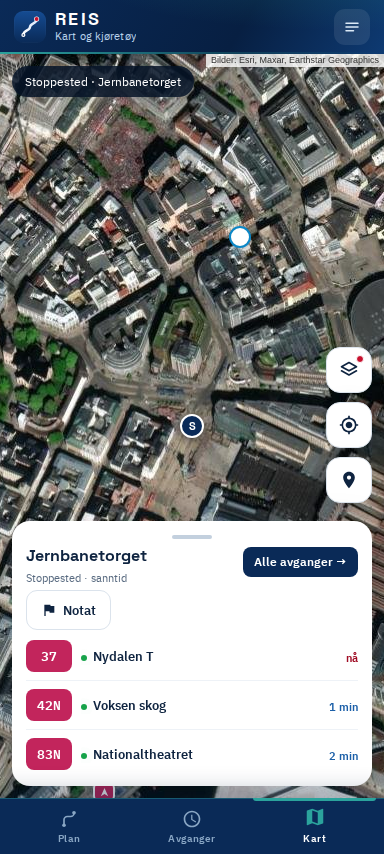
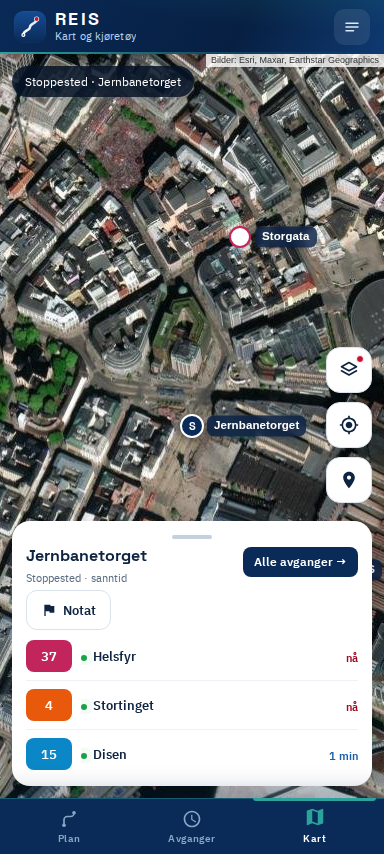
Add files via upload

diff --git a/index.html b/index.html
@@ -418,6 +418,20 @@ a{color:inherit}
 .leaflet-popup-close-button{color:var(--muted)!important}
 .leaflet-popup-content{margin:12px 14px;font-family:var(--font-b)}
 /* Holdeplassnål på kartet – liten nok til at 40 av dem ikke drukner kartet */
+/* Navnet ligger til høyre for nålen, med mørk plate for lesbarhet – også over
+   satellittbilder, der ren tekst forsvinner. */
+.pin-label{position:absolute;left:26px;top:50%;transform:translateY(-50%) translateX(-4px);
+  display:none;opacity:0;white-space:nowrap;pointer-events:none;
+  font-size:11.5px;font-weight:600;letter-spacing:.01em;color:#fff;
+  background:rgba(7,31,66,.82);padding:2px 7px;border-radius:7px;
+  backdrop-filter:blur(3px);box-shadow:0 1px 4px rgba(4,20,43,.35);
+  transition:opacity .22s ease,transform .22s cubic-bezier(.22,1,.36,1)}
+.pin-label.show{display:block;opacity:1;transform:translateY(-50%) translateX(0)}
+.pin-label.left{left:auto;right:26px;transform:translateY(-50%) translateX(4px)}
+.pin-label.left.show{transform:translateY(-50%) translateX(0)}
+/* Under zoom flimrer navnene – skjul dem til bevegelsen er ferdig */
+.leaflet-container.zooming .pin-label{opacity:0;transition:none}
+:root[data-base="standard"] .pin-label{background:rgba(7,31,66,.78)}
 .stop-pin{width:22px;height:22px;border-radius:50%;background:#fff;border:2.5px solid var(--pc,#0A2A57);
   display:grid;place-items:center;box-shadow:0 2px 6px rgba(4,20,43,.32);cursor:pointer;
   transition:transform .18s cubic-bezier(.34,1.56,.64,1)}
@@ -1718,7 +1732,9 @@ function initMap(){
   vehicleLayer=L.layerGroup().addTo(map);bikeLayer=L.layerGroup().addTo(map);
   map.on('click',onMapClick);
   /* Hent holdeplasser og kjøretøy på nytt når utsnittet endrer seg. */
-  map.on('moveend zoomend',()=>{loadStopMarkers();autoVehicles()});
+  map.on('moveend zoomend',()=>{loadStopMarkers();autoVehicles();layoutStopLabels()});
+  map.on('zoomstart',()=>{const c=map.getContainer();if(c)c.classList.add('zooming')});
+  map.on('zoomend',()=>{const c=map.getContainer();if(c)c.classList.remove('zooming')});
   /* FIX: setView/panTo fyrer også movestart, og gjorde at følgingen slo seg av
      i samme øyeblikk den ble slått på. Nå merkes appens egne bevegelser, og
      bare et ekte dra-i-kartet avbryter følgingen. */
@@ -3642,19 +3658,70 @@ async function loadStopMarkers(force){
       shownStopIds.add(pl.id);
       const modes=(pl.transportMode||[]).filter(Boolean);
       const mm=MODE[modes[0]]||MODE.bus;
+      const st={id:pl.id,name:pl.name,lat:pl.latitude,lon:pl.longitude,
+                dist:e.node.distance||0,mode:modes[0]||'bus'};
       const mk=L.marker([pl.latitude,pl.longitude],{
         icon:L.divIcon({className:'',iconSize:[22,22],iconAnchor:[11,11],
-          html:`<div class="stop-pin" style="--pc:${mm.hex}" title="${esc(pl.name)}">${mm.icon||''}</div>`}),
+          html:`<div class="stop-pin" style="--pc:${mm.hex}" title="${esc(pl.name)}">${mm.icon||''}`+
+               `<span class="pin-label">${esc(pl.name)}</span></div>`}),
         keyboard:false,zIndexOffset:100});
-      mk.on('click',()=>{
-        const st={id:pl.id,name:pl.name,lat:pl.latitude,lon:pl.longitude,dist:e.node.distance||0};
-        showStopCard(st);
-      });
+      mk.on('click',()=>showStopCard(st));
+      mk.stopData=st;
       mk.addTo(stopsLayer);
     });
     stopMarkersAt=Date.now();
+    layoutStopLabels();
   }catch(err){logErr('stopmarkers',err)}
   finally{stopMarkersBusy=false}
+}
+
+/* ================= navn på holdeplassene =================
+   45 navn samtidig blir en grøt. Vi plasserer dem grådig: nærmeste og
+   viktigste først, og hopper over hvert navn som ville lagt seg oppå et
+   allerede plassert. Da får du navn der det er plass, og bare prikker der
+   det er tett – uten at noe overlapper. */
+const LABEL_ZOOM=14;
+const MODE_RANG={rail:0,metro:1,tram:2,water:3,bus:4,coach:4};
+function layoutStopLabels(){
+  if(!mapUsable()||!stopsLayer)return;
+  const lag=stopsLayer.getLayers();
+  const vis=map.getZoom()>=LABEL_ZOOM;
+  if(!vis){lag.forEach(m=>{const el2=m.getElement&&m.getElement();
+    if(el2){const l=el2.querySelector('.pin-label');if(l)l.classList.remove('show')}});return}
+
+  /* Viktigst først: tog og T-bane før buss, og nærmest før fjernest. */
+  const sortert=lag.slice().sort((a,b)=>{
+    const A=a.stopData||{},B=b.stopData||{};
+    const r=(MODE_RANG[A.mode]??5)-(MODE_RANG[B.mode]??5);
+    return r||((A.dist||0)-(B.dist||0));
+  });
+
+  const tatt=[];
+  const treffer=(r)=>tatt.some(o=>!(r.x2<o.x1||r.x1>o.x2||r.y2<o.y1||r.y1>o.y2));
+  const w=map.getSize();
+  sortert.forEach(m=>{
+    const el2=m.getElement&&m.getElement();if(!el2)return;
+    const lab=el2.querySelector('.pin-label');if(!lab)return;
+    const d=m.stopData||{};
+    const p=map.latLngToContainerPoint(m.getLatLng());
+    /* Anslå bredden fra tegnantall – billigere enn å måle i DOM-en, og
+       nøyaktig nok til å hindre overlapp. */
+    const bredde=Math.min(150,(d.name||'').length*6.1+10);
+    /* Nålen er kanskje så langt til høyre at navnet ikke får plass der. Prøv
+       venstre side før vi gir opp – det er slik kartappene gjør det. */
+    const høyre={x1:p.x+15,x2:p.x+15+bredde,y1:p.y-9,y2:p.y+9};
+    const venstre={x1:p.x-15-bredde,x2:p.x-15,y1:p.y-9,y2:p.y+9};
+    const passer=r=>r.x2<=w.x-6&&r.x1>=6&&r.y1>=52&&r.y2<=w.y-6&&!treffer(r);
+    let boks=null,side='r';
+    if(passer(høyre))boks=høyre;
+    else if(passer(venstre)){boks=venstre;side='v'}
+    if(!boks){lab.classList.remove('show','left');return}
+    lab.classList.toggle('left',side==='v');
+    /* Reserver også litt rundt selve nålen, så navn ikke klistrer seg inntil. */
+    tatt.push({x1:Math.min(boks.x1,p.x-14)-2,x2:Math.max(boks.x2,p.x+14)+6,
+               y1:boks.y1-3,y2:boks.y2+3});
+    lab.classList.add('show');
+  });
 }
 
 /* ================= kjøretøy slås på av seg selv =================

diff --git a/sw.js b/sw.js
@@ -5,7 +5,7 @@
      kartfliser → cache-first med tak på antall fliser
      API-er     → network-first med cachet fallback (tunnel/dårlig dekning)
 */
-const VERSION = 'v5.7.0';
+const VERSION = 'v5.8.0';
 const SHELL_CACHE = `reis-shell-${VERSION}`;
 const TILE_CACHE = `reis-tiles-${VERSION}`;
 const DATA_CACHE = `reis-data-${VERSION}`;

diff --git a/ENDRINGER.md b/ENDRINGER.md
@@ -2,7 +2,7 @@
 
 Alt under er verifisert mot Entur live 31. juli 2026, ikke gjettet.
 `node test-live.js` kjører appens egne spørringer mot API-et (15 tester),
-`node test-dom.js` tester grensesnitt og logikk i jsdom (214 tester),
+`node test-dom.js` tester grensesnitt og logikk i jsdom (220 tester),
 `python3 shot.py`, `measure.py`, `swipe_test.py`, `fill_test.py`, `qt_test.py`,
 `sec_test.py`, `overlap_test.py`, `perf_test.py`, `font_test.py`, `a11y.py` og
 `polish_test.py`, `plan_test.py`, `soak.py`, `regress_map.py` og `update_test.py`
@@ -164,6 +164,37 @@ Nå:
 
 Testen booter appen i jsdom **uten** Leaflet i det hele tatt og bekrefter at den
 starter, at Plan-fanen tegnes, og at alle kartfunksjonene har vakt.
+
+---
+
+## Navn på holdeplassene
+
+Kartet viste bare prikker – du måtte trykke på hver enkelt for å vite hva den
+var. Navn på alle 45 samtidig ville blitt en grøt, så de plasseres **grådig med
+kollisjonstest**:
+
+- Viktigst først: tog og T-bane før trikk og buss, og nærmeste før fjerneste.
+- Hvert navn får plass til høyre for nålen. Er det opptatt eller utenfor
+  skjermen, prøves venstre side. Passer ingen av delene, hoppes navnet over –
+  nålen står igjen alene.
+- Navn vises først fra zoom 14. Under det er stoppene for tett.
+- Under zooming skjules navnene, så de ikke flimrer mens kartet beveger seg.
+- Mørk plate bak teksten, så den er lesbar også over satellittbilder.
+
+Målt i nettleser på fem zoomnivåer:
+
+| Zoom | Nåler | Navn vist | Overlappende par |
+|---|---|---|---|
+| 13 | 45 | 0 (under grensen) | 0 |
+| 14 | 45 | 20 | **0** |
+| 15 | 19 | 10 | **0** |
+| 16 | 7 | 4 | **0** |
+| 17 | 5 | 1 | **0** |
+
+> Første versjon viste bare 15 navn på zoom 14, og «Oslo S» manglet selv om det
+> var god plass. Årsaken var at navnet bare ble forsøkt til høyre for nålen –
+> lå nålen langt til høyre, fikk det aldri plass. Med venstre side som reserve
+> gikk antallet opp til 20, fortsatt uten en eneste overlapp.
 
 ---
 
